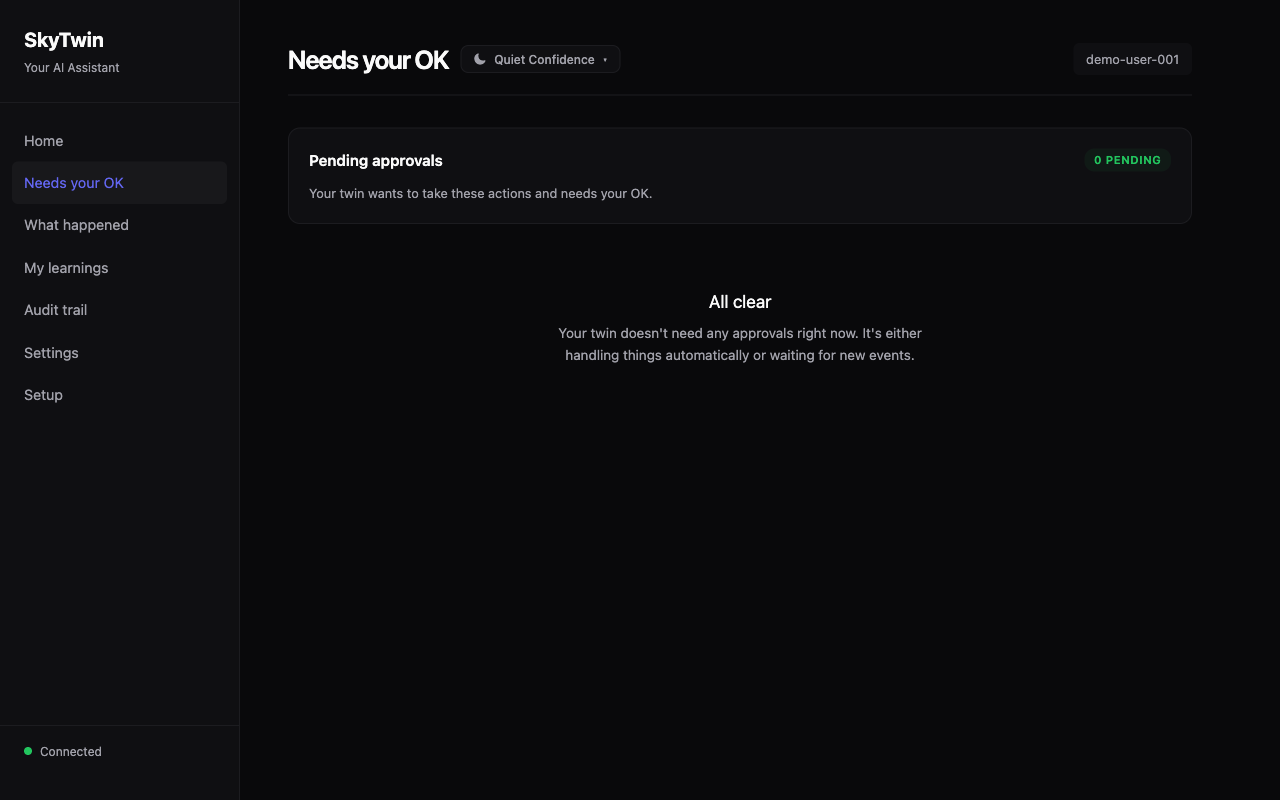
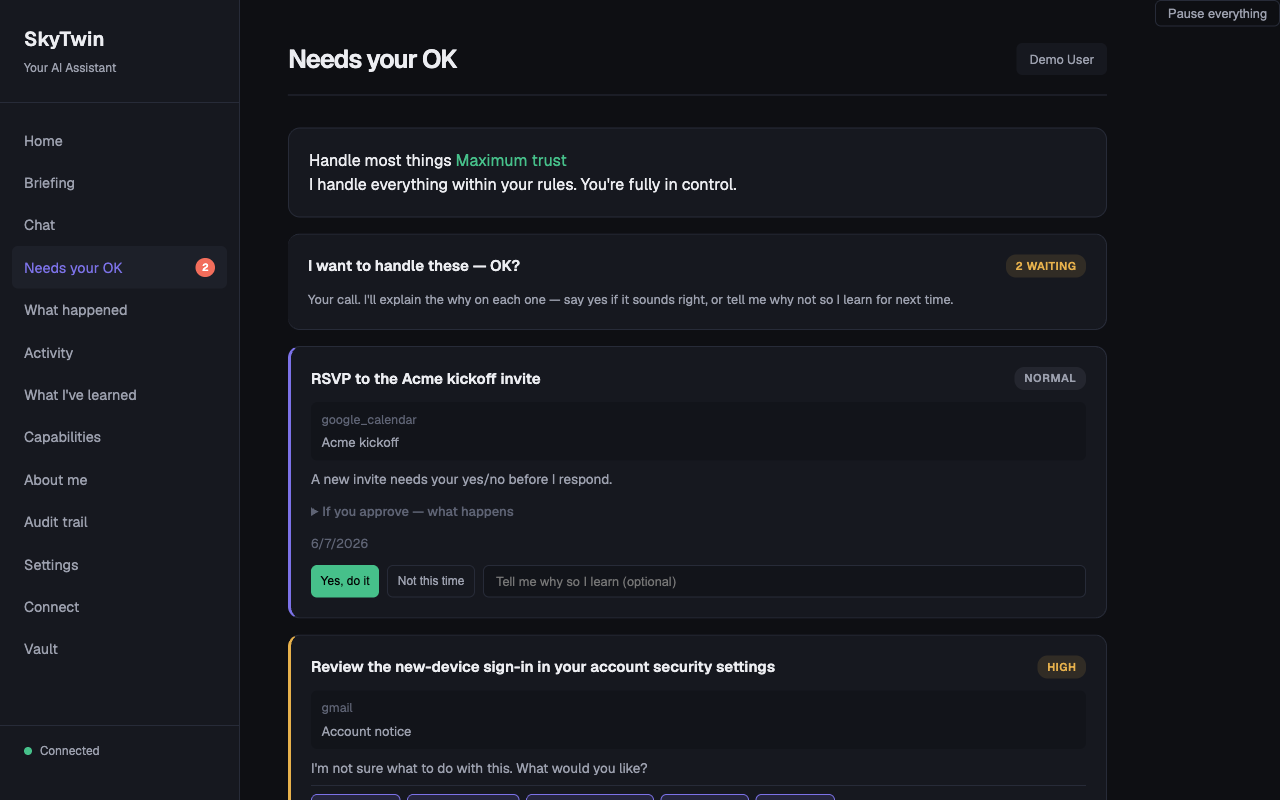
docs: regenerate README screenshots on the iris UI + add the briefing hero
The 7 committed screenshots were from 2026-04-07 — two design generations stale:
they showed the pre-DESIGN.md indigo accent AND an empty "0% / No activity yet"
dashboard with the old minimal nav, none of which matches the shipped app.

Recaptured all 7 from the current iris-themed app (Quiet Confidence dark) in
tour mode (populated sample profile), matching the original framing (1280x800
viewport for the hero pages; full-page for the long settings/setup config pages):
onboarding, dashboard, approvals, decisions, twin (My Learnings), settings, setup.
Each now shows the iris accent, Fraunces twin-voice, the populated digest, and the
current expanded nav.

Also added a **Daily Briefing** screenshot (the Inbox-Intelligence digest — the
marquee launch feature) in the previously-empty 8th table cell, and refreshed two
stale alt-text captions (onboarding no longer "picks domains"; dashboard now leads
with the briefing).

diff --git a/README.md b/README.md
@@ -70,11 +70,11 @@ Every path produces an explanation. Every outcome feeds back into the twin. The 
 <tr>
 <td width="50%">
 <p align="center"><strong>Onboarding</strong></p>
-<img src="docs/screenshots/onboarding.png" alt="Onboarding — pick the domains you want help with">
+<img src="docs/screenshots/onboarding.png" alt="Onboarding — connect Gmail, tell your twin about yourself, or explore a sample profile">
 </td>
 <td width="50%">
 <p align="center"><strong>Dashboard</strong></p>
-<img src="docs/screenshots/dashboard.png" alt="Dashboard — twin confidence, learnings, and recent activity">
+<img src="docs/screenshots/dashboard.png" alt="Dashboard — your daily briefing: what needs you, what the twin handled, and recent activity">
 </td>
 </tr>
 <tr>
@@ -103,6 +103,8 @@ Every path produces an explanation. Every outcome feeds back into the twin. The 
 <img src="docs/screenshots/twin.png" alt="My Learnings — preferences, inferences, and corrections your twin has learned">
 </td>
 <td width="50%">
+<p align="center"><strong>Daily Briefing</strong></p>
+<img src="docs/screenshots/briefing.png" alt="Daily briefing — a source-cited digest that splits to-dos (act) from topics (FYI), with a Power view for the reasoning behind each call">
 </td>
 </tr>
 </table>
